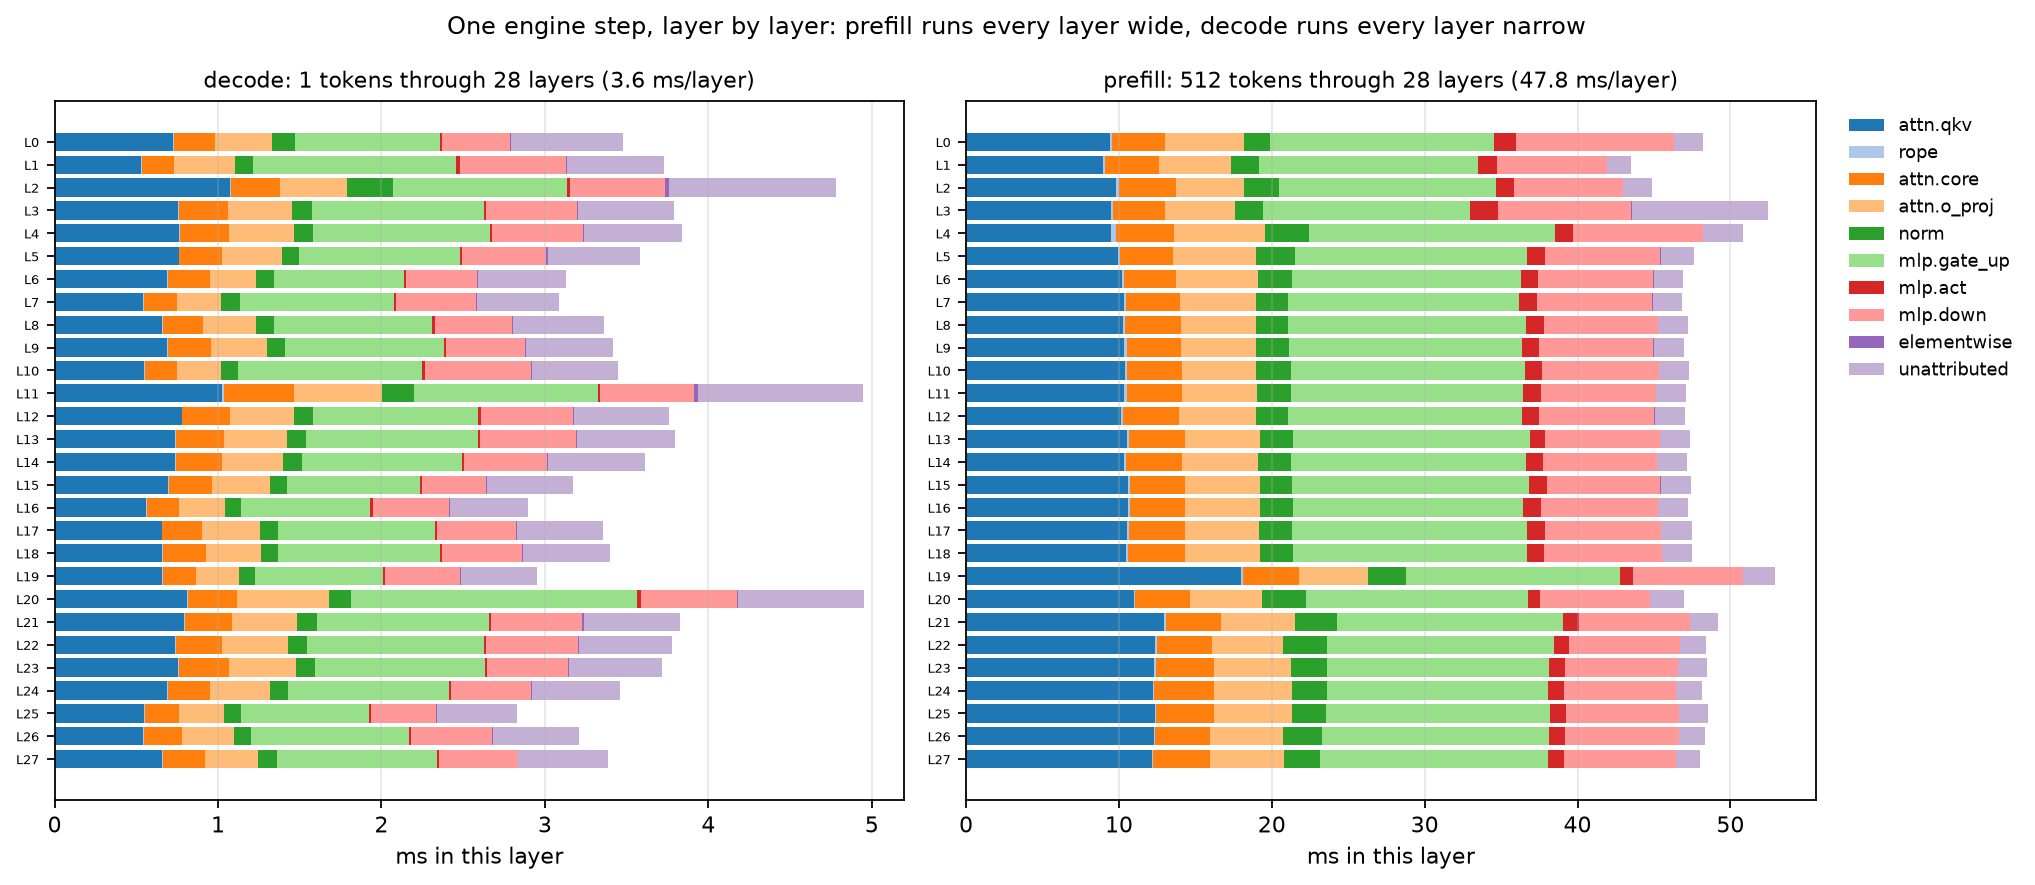
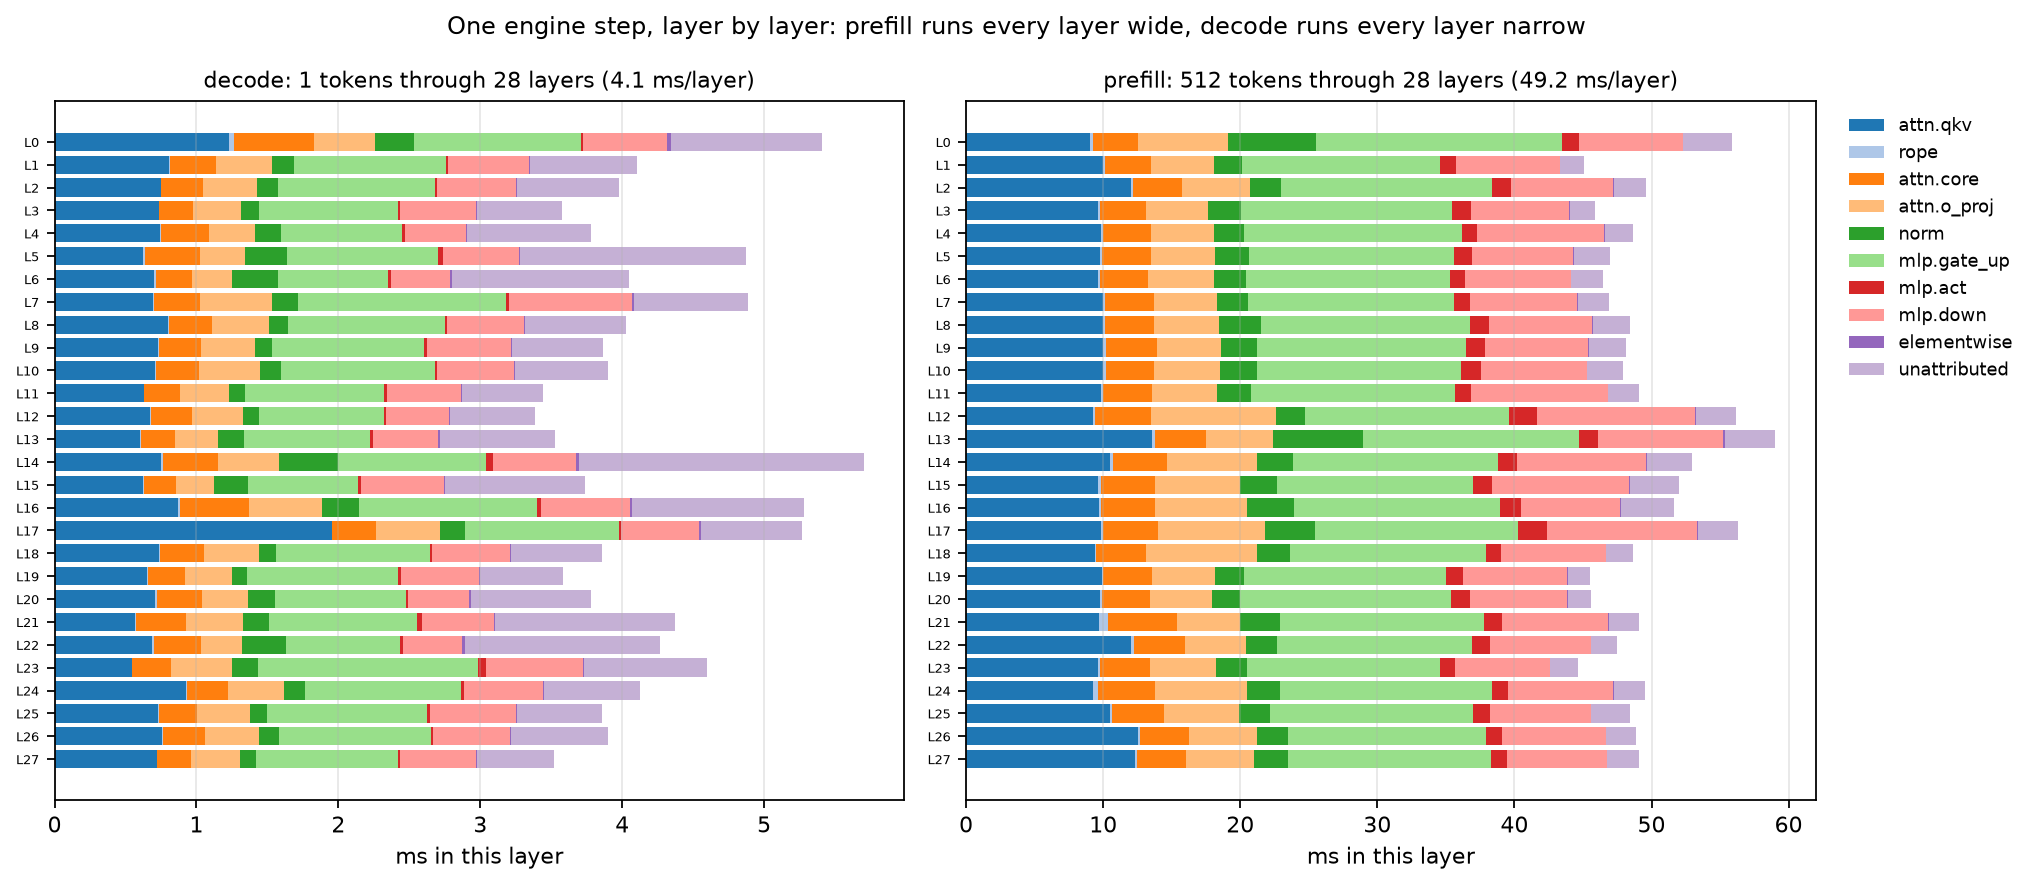
docs: put the CPU and the GPU profile runs side by side
Adds docs/05-cpu-vs-gpu-profile.md and the artifacts it cites: the two per-run
stage CSVs, results/profile-compare.csv (absolute ms, share and per-op ratio),
the stage/op-class/projection bars under figures/profile, and the per-step
figures for both legs.

Both traces are now 20 iterations of the same prompt at 512 context tokens --
one prefill plus 19 decode steps over 28 layers. What they show:

* The projection mix is nearly identical on both devices (gate_up largest at
  ~26%, then qkv, down, o_proj) and every projection is 28.7-30.6x slower on the
  CPU. lm_head is the exception at 19x: it is bandwidth-bound, not compute-bound.
* Decode costs 43x (CPU) and 129x (GPU) more per token than prefill, because
  prefill reuses each weight across 512 tokens while decode streams the whole
  model per token. Measured decode times match weight bytes over memory
  bandwidth (~197 GB/s GPU, ~21 GB/s CPU).
* Attention's larger share on the GPU (9.7% vs 5.6%) is an artifact of
  everything else shrinking faster (15.7x vs ~29x), which is why the comparison
  table prints shares and ratios together.
* The CPU has no fused RMSNorm: 90,960 elementwise ATen ops (8.2%) where the GPU
  has 2,260 fused norm kernels (3.5%).

The README gains a "Reading the two traces together" pointer. CPU absolutes are
noted as +/-15% across runs; shares and ratios are the stable quantities.

diff --git a/docs/05-cpu-vs-gpu-profile.md b/docs/05-cpu-vs-gpu-profile.md
@@ -1,0 +1,190 @@
+# 05 — One request path, two devices
+
+Two traces of the same engine, same weights, same prompt: one on the laptop CPU
+(`float32`), one on the RTX 4060 (`bfloat16`). The question is not "which is
+faster" — that is one number — but *what the work is made of on each device*, and
+which parts of vLLM's request path change shape when the device changes.
+
+```bash
+DEVICE=cpu VARIANT=ref harness/profile_run.sh   # -> traces/cpu-ref-profile/rank0*
+DEVICE=gpu VARIANT=ref harness/profile_run.sh   # -> traces/gpu-ref-profile/rank0*
+analysis/compare_runs.py --cpu results/cpu-ref-profile-stages.csv \
+                         --gpu results/gpu-ref-profile-stages.csv \
+                         --out results/profile-compare.csv
+analysis/plot_compare.py results/cpu-ref-profile-stages.csv \
+                         results/gpu-ref-profile-stages.csv --out figures/profile
+```
+
+## What was captured
+
+Both runs: Qwen3-0.6B (`ref`, no quantization), `--enforce-eager`, one process,
+`record_shapes=True`, one warmup request, then four serial requests of a
+512-token prompt with `ignore_eos` and 128 output tokens. The profiler records
+the first 20 engine iterations, which is exactly **one prefill step (512 context
+tokens) plus 19 decode steps** over 28 layers — identical on both legs, because
+the prompt text, tokenizer and iteration cap are identical. Every table below is
+the same 20 iterations.
+
+The legs differ in dtype by design (CPU has no bf16 hardware, so `dtype_for`
+gives each device its best precision), and therefore in weight bytes. That is
+covered under caveats; it does not affect the *shape* of the work.
+
+## Where the time goes
+
+Attributed work, `results/profile-compare.csv`. CPU is host self time (on a CPU
+the host *is* the device); GPU is summed kernel time.
+
+| op class | cpu ms | cpu % | gpu ms | gpu % | cpu/gpu |
+|---|---:|---:|---:|---:|---:|
+| linear.gate_up | 1014.72 | 26.7 | 35.34 | 25.4 | 28.7× |
+| linear.qkv | 731.69 | 19.3 | 23.94 | 17.2 | 30.6× |
+| linear.down | 554.57 | 14.6 | 18.32 | 13.2 | 30.3× |
+| linear.lm_head | 478.84 | 12.6 | 25.06 | 18.0 | 19.1× |
+| linear.o_proj | 362.05 | 9.5 | 12.55 | 9.0 | 28.9× |
+| attention.paged | 211.03 | 5.6 | 13.44 | 9.7 | 15.7× |
+| elementwise | 309.81 | 8.2 | — | — | — |
+| rope | 50.56 | 1.3 | 1.46 | 1.1 | 34.5× |
+| attention.kv_write | 36.61 | 1.0 | 1.29 | 0.9 | 28.3× |
+| activation | 27.55 | 0.7 | 1.26 | 0.9 | 21.9× |
+| norm | — | — | 4.93 | 3.5 | — |
+| python (plumbing) | 15.10 | 0.4 | 1.37 | 1.0 | 11.0× |
+| sampler | 6.04 | 0.2 | — | — | — |
+| **total** | **3798.57** | | **138.97** | | **27.3×** |
+
+Stage totals, for orientation: `model.forward` 86.9% (CPU) vs 81.4% (GPU),
+`model.lm_head` 12.6% vs 18.0%, everything else (prepare inputs, sampling,
+engine glue) under 0.5% on CPU and under 0.3% on GPU.
+
+### 1. The device changes the cost by 29×, not the shape of the work
+
+The projection mix is almost the same on both: gate_up is the largest in both
+(26.7% / 25.4%), then qkv, down, o_proj, and lm_head as a separate stage. The
+per-projection ratios cluster tightly at 28.7–30.6×. That is what you expect if
+the work is the same arithmetic and the device is simply a different multiplier:
+vLLM dispatches the same four GEMMs per layer either way, and nothing about
+scheduling or batching moved.
+
+The one projection that escapes the cluster is lm_head at 19.1×, and the reason
+is in its shape. It is the only GEMM whose output is the vocabulary (151,936
+wide): on the GPU it is bandwidth-bound, because each token streams
+`151936 × 1024 × 2 B ≈ 311 MB` of weights, while the projections stream
+12–25 MB each. The CPU's fp32 weights are twice the bytes, but its GEMMs are
+compute-limited rather than bandwidth-limited, so it loses proportionally less
+on this one.
+
+### 2. Decode is a weight-streaming problem; prefill is not
+
+Per token, from the step report and per-step device sums. CPU rows are host self
+time; GPU rows are kernel time, and the GPU's prefill step has a 18.2 ms host
+span for the same 24.1 ms of device work because the device runs behind the
+launcher:
+
+| | CPU | GPU |
+|---|---:|---:|
+| prefill forward (512 tokens) | 1386.2 ms | 24.1 ms |
+| prefill per token | 2.71 ms | 0.047 ms |
+| decode forward (1 token) | 116.6 ms | 6.05 ms |
+| prefill / decode cost per token | 43× cheaper | 129× cheaper |
+
+Both devices show the same structural fact: decoding one token costs *far* more
+than processing one prefill token. Prefill runs 512 tokens through each weight
+matrix in one GEMM, so every weight byte is reused 512 times; decode runs one
+token, so the whole model is streamed from memory to multiply each weight once.
+For this model (~0.6B params with tied embeddings) that is ~1.2 GB per decode
+token in bf16, ~2.4 GB in fp32.
+
+The measured decode times are consistent with that: 1.2 GB / 6.05 ms ≈ 197 GB/s
+on the GPU (against ~272 GB/s peak on this part), and 2.4 GB / 116.6 ms ≈ 21 GB/s
+on the CPU. A compute-bound explanation would predict the opposite ordering of
+prefill/decode, so the prefill→decode asymmetry is the device-independent story
+here, and it is the reason decode latency dominates single-stream serving.
+
+### 3. Attention gets a bigger *share* on the GPU by getting smaller
+
+`attention.paged` is 9.7% of GPU work and 5.6% of CPU work, which reads as "the
+GPU spends more on attention". It does not: 13.44 ms against 211.03 ms, a 15.7×
+gain — the *smallest* ratio in the table. The share rises because everything
+else shrank by ~29× while attention shrank by ~16×, so attention's slice grew.
+Per layer it is 7.3% of CPU decode time and 3.5% of GPU decode time.
+
+This is the general trap with share tables on two devices, and the reason
+`compare_runs.py` prints both columns.
+
+### 4. RMSNorm exists on the GPU and is *arithmetic* on the CPU
+
+There is no `norm` row for the CPU at all, and 8.2% of CPU time sits in
+`elementwise` (90,960 ATen ops: `aten::mul`, `aten::pow`, `aten::sum`,
+`aten::div_`, `aten::add`, plus view/slice/copy plumbing). The GPU has fused
+`_C::rms_norm` and `_C::fused_add_rms_norm` kernels — 2,260 of them, 3.5%.
+
+The CPU path has no fused RMSNorm op, so the layer's normalization arrives as a
+chain of elementwise calls, and the equally unfused reshapes around attention add
+to the same bucket. Same math, different decomposition: the GPU's 3.5% and the
+CPU's 8.2% are not comparable as "how expensive is normalization", only as "how
+much of each device's time lands in that bucket".
+
+### 5. Frontend and engine glue are noise on both — but not the same noise
+
+Engine-core glue (sample + schedule + postproc) is 1.45 ms/step on the CPU and
+0.64 ms/step on the GPU. Its *share* is higher on the GPU (3.1% vs 0.7%) because
+the model forward got so much cheaper; in absolute terms the GPU is still the
+faster engine core. Neither device is anywhere near frontend-bound: prompt
+handling and detokenization do not appear in the traced window at all.
+
+### 6. First-step, per-shape cost is real on both, and much bigger on the GPU
+
+Layer 0 of the first decode step versus the other 27 layers:
+
+| | L0 | other layers | ratio |
+|---|---:|---:|---:|
+| CPU | 5.41 ms | 4.12 ms | 1.31× |
+| GPU | 6.64 ms | 0.66 ms | 10.09× |
+
+By step 19 the gap is gone on the CPU (0.93×) and down to 1.22× on the GPU. This
+is one-time per-shape setup at the new `M=1` shape — on the CPU a oneDNN
+primitive is built, on the GPU the first launch of these kernels happens — and it
+is why `step_report.py` excludes L0 from the layer means and reports it
+separately instead of letting it inflate the average.
+
+On the GPU it is also the difference between "28 layers cost 0.66 ms each" and
+"the first one costs ten times that", which matters if you are looking at
+time-to-first-token rather than steady-state throughput.
+
+## Caveats that travel with these numbers
+
+- **Different metrics.** CPU self time and GPU kernel time both answer "what did
+  this op cost on this device", but they are not the same physical measurement. A
+  GPU kernel's time is device time; the CPU's is host time. Do not read the
+  total ratio (27.3×) as a serving-throughput ratio — the GPU leg is eager, has
+  no CUDA graphs (R6), and was driven by four serial requests.
+- **Different dtypes by design.** fp32 vs bf16 means the GPU reads and multiplies
+  half the bytes. The 29× projection ratio is arithmetic *and* precision, not
+  silicon alone.
+- **Profiled windows are distorted.** Python self time in the window is 27.9 s
+  (CPU) and 2.1 s (GPU) against 3.8 s / 0.14 s of attributed work: the profiler's
+  own recording overhead and asyncio waits live there. That is why the taxonomy
+  attributes work and prints the excluded share rather than hiding it.
+- **Absolute CPU numbers drift between runs.** A repeat of the same CPU run gave
+  4.12 ms/layer here versus ~3.6 ms/layer earlier (≈15%), with the projection
+  shares moving under 1.5 points. Compare shares and per-projection ratios;
+  treat absolute CPU milliseconds as ±15%.
+- **The GPU window is one request.** `max_iterations=20` stops at the end of
+  request 0's 19th decode step; the remaining three requests are served but not
+  recorded. That is sufficient for the per-step anatomy, which repeats layer for
+  layer, but it is not a throughput sample.
+- **The 32-token prefix-cache trap.** The harness warms up with a short request
+  and resets the prefix cache. On the GPU the reset did not take effect and the
+  profiled prefill scheduled 480 tokens instead of 512 — two 16-token blocks came
+  from the warmup. The warmup now carries a unique preamble, and
+  `profile_run.sh` reads the scheduler's own context-token count back from the
+  trace, so a mismatch fails loudly instead of skewing the comparison.
+
+## Files
+
+| what | where |
+|---|---|
+| per-run stage CSVs | `results/cpu-ref-profile-stages.csv`, `results/gpu-ref-profile-stages.csv` |
+| merged comparison | `results/profile-compare.csv` |
+| stage / op-class / projection figures | `figures/profile/fig{1,2,3}-*.png` |
+| per-step anatomy figures | `figures/fig-step-cpu-ref.png`, `figures/fig-step-gpu-ref.png` |
+| traces (not committed) | `traces/{cpu,gpu}-ref-profile/rank0*.json.gz` |

diff --git a/README.md b/README.md
@@ -160,6 +160,24 @@ Both legs use the reference variant so the weights are the same and only the dev
 differs. The dtype still differs by design (CPU `float32`, GPU `bfloat16`): the CPU has no
 bf16 hardware, so `dtype_for` gives each device its optimal precision.
 
+### Reading the two traces together
+
+`analysis/compare_runs.py` merges the two per-run CSVs into one op-class table (absolute
+ms, share, and the per-op ratio), and `analysis/plot_compare.py` draws the stage,
+op-class and projection bars from the same files:
+
+```bash
+analysis/compare_runs.py --cpu results/cpu-ref-profile-stages.csv \
+                         --gpu results/gpu-ref-profile-stages.csv \
+                         --out results/profile-compare.csv
+analysis/plot_compare.py results/cpu-ref-profile-stages.csv \
+                         results/gpu-ref-profile-stages.csv --out figures/profile
+```
+
+The result, with the per-step anatomy and the caveats (different metrics per device,
+different dtypes by design, why decode is bandwidth-bound and prefill is not), is in
+[`docs/05-cpu-vs-gpu-profile.md`](docs/05-cpu-vs-gpu-profile.md).
+
 ### GPU startup troubleshooting
 
 The GPU leg needs a host compiler that the installed CUDA toolkit accepts, and
